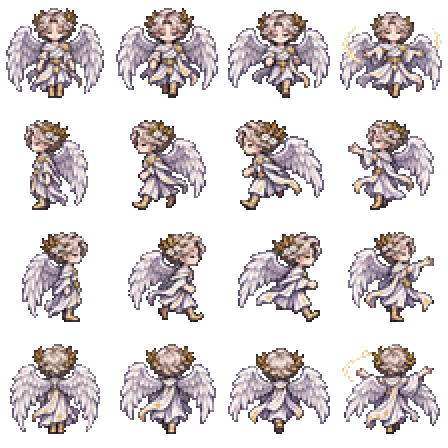
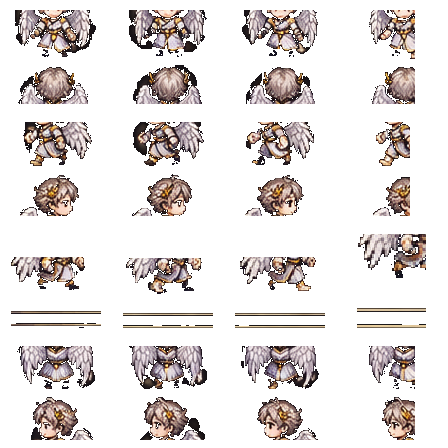
V6.1.3 - Rework visual do Abloy

diff --git a/public/game.js b/public/game.js
@@ -48,8 +48,8 @@ HERO.moretti=new Image();HERO.moretti.src='assets/heroes/moretti_sheet.png?v=49'
 HERO.mimic=new Image();HERO.mimic.src='assets/heroes/mimic_sheet.png?v=551';
 const MIMIC_ATTACK=new Image();MIMIC_ATTACK.src='assets/heroes/mimic_attack.png?v=551';
 const MIMIC_ART={};function getMimicArt(t){if(!MIMIC_ART[t]){const im=new Image();im.src='assets/heroes/mimic/'+t+'.webp?v=551';MIMIC_ART[t]=im;}return MIMIC_ART[t];}
-HERO.abloy=new Image();HERO.abloy.src='assets/heroes/abloy_sheet.png?v=612';
-const ABLOY_COSMIC=new Image();ABLOY_COSMIC.src='assets/heroes/abloy_cosmic.png?v=612';
+HERO.abloy=new Image();HERO.abloy.src='assets/heroes/abloy_sheet.png?v=613';
+const ABLOY_COSMIC=new Image();ABLOY_COSMIC.src='assets/heroes/abloy_cosmic.png?v=613';
 HERO.josue=new Image();HERO.josue.src='assets/heroes/josue_sheet.png?v=523';
 const SKILL_HEROES=new Set(['loid','kris','cross','eve','kali','mollitiam','moretti','l0id','josue','mimic','abloy']);let lastSkillArt='';
 function syncSkillArt(type){if(!SKILL_HEROES.has(type)||lastSkillArt===type)return;lastSkillArt=type; /* Keep original ✦ ✧ ✺ buttons; ability art does not replace their symbols. */}

diff --git a/README_v613.md b/README_v613.md
@@ -1,0 +1,5 @@
+Yggdrasil RPG V6.1.3 — Abloy Visual Rework
+- Token do Abloy redesenhado no estilo dos outros sprites.
+- Nova folha de sprites da forma angelical.
+- Nova folha de sprites da forma cósmica.
+- Nova carta de seleção no estilo dos outros personagens.
